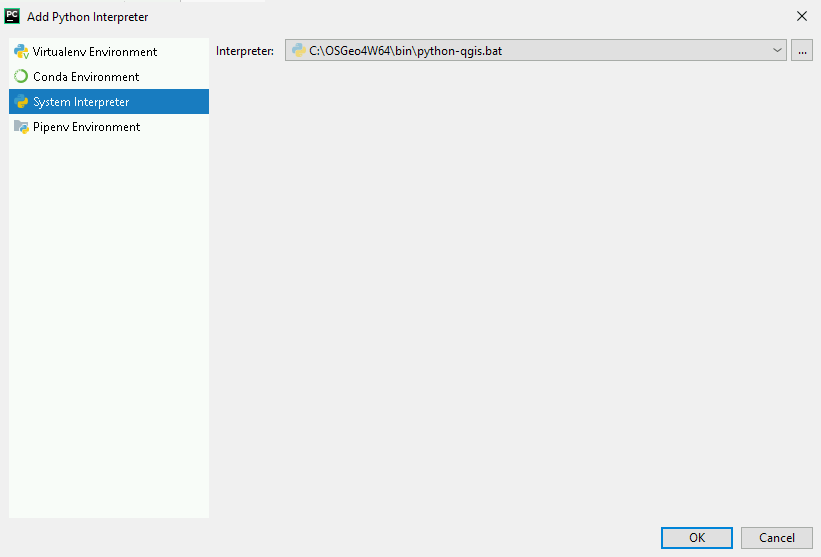
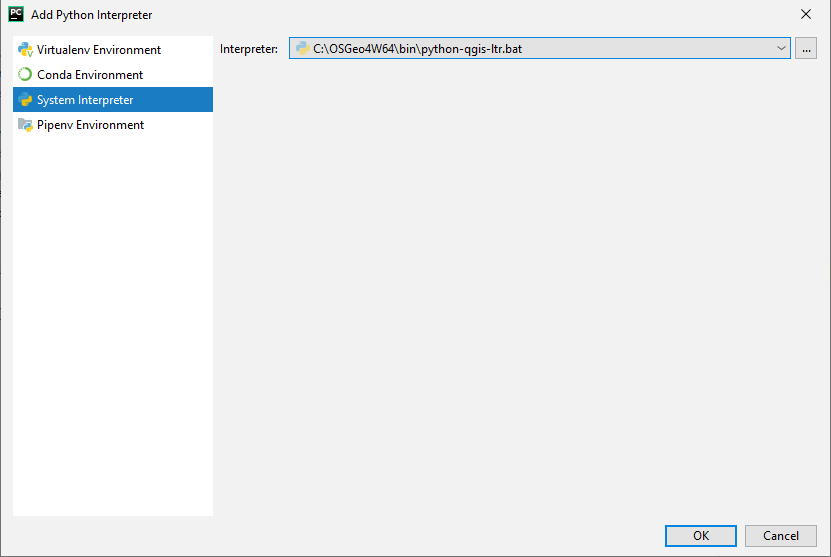
windows update installation notes

diff --git a/ruzne/instalace/windows.rst b/ruzne/instalace/windows.rst
@@ -38,8 +38,8 @@ prostředí/možnosti**, v jakých můžeme Python provozovat:
 První možnost (preferovaná): Instalace OSGeo4W
 ----------------------------------------------
 
-`OSGeo4W <https://trac.osgeo.org/osgeo4w/>`_ je síťový instalátor pro
-otevřený GIS software pro operační systém MS Windows. Instalace
+`OSGeo4W <https://trac.osgeo.org/osgeo4w/>`__ je síťový instalátor
+otevřeného GIS softwaru pro operační systém MS Windows. Instalace
 probíhá tak, že stáhneme neprve instalátor (typicky 64bit
 `osgeo4w-setup-x86_64.exe
 <http://download.osgeo.org/osgeo4w/osgeo4w-setup-x86_64.exe>`__),
@@ -89,6 +89,9 @@ V našem případě najděte a nainstalujte následující balíčky:
 * ``python3-pip``
 * ``python3-gdal``
 * ``python3-owslib``
+* ``python3-fiona``
+* ``python3-shapely``  
+* ``python3-rasterio``
 
 .. _instalace-osgeo4w-cmd:
 
@@ -100,7 +103,7 @@ V našem případě najděte a nainstalujte následující balíčky:
    .. code-block:: bash
                    
       osgeo4w-setup-x86_64.exe -g -k -a x86_64 -R C:\OSGeo4W64 -s http://osgeo4w-oslandia.com/osgeo4w -q ^
-      -P python3-pip,python3-gdal,python3-owslib,qgis-ltr-full
+      -P python3-pip,python3-gdal,python3-owslib,qgis-ltr-full,python3-fiona,python3-shapely,python3-rasterio
    
 .. note:: A samozřejmě můžete i nainstalovat desktopový program QGIS
    (není podmínkou pro toto školení).
@@ -122,54 +125,49 @@ nastaví proměnné prostředí pro Python 3.
         
 .. figure:: ../images/osgeo4w-run.png
 
-.. important:: V tuto chvíli (jaro 2020) bohužel nejde v použitelné
-   formě instalovat balíčky ``rasterio`` (chybí) a ``fiona/shapely``
-   (nefunkční), které budeme v tomto kurzu používat. Vazby na knihovnu
-   GDAL ale fungují dobře, postup je popsán v kapitole
-   :ref:`osgeo4w-fiona-etc`.
-
 .. _osgeo4w-fiona-etc:
 
-Instalace chybějících knihoven
-^^^^^^^^^^^^^^^^^^^^^^^^^^^^^^
+.. note:: Pokud narazíte na problém s instalací či nefunkčností
+   knihoven Fiona, Shapely či Rasterio, tak pokračujte podle
+   návodu níže.
 
-Potřebujeme stáhnout a nainstalovat knihovny, které v distribuci OSGeo4W nejsou
-a nebo nefungují, zejména balíčky
+   Potřebujeme stáhnout a nainstalovat knihovny, které v distribuci OSGeo4W nejsou
+   a nebo nefungují, zejména balíčky
 
-* `Rasterio <https://www.lfd.uci.edu/~gohlke/pythonlibs/#rasterio>`__
-* `Fiona <https://www.lfd.uci.edu/~gohlke/pythonlibs/#fiona>`__
-* `Shapely <https://www.lfd.uci.edu/~gohlke/pythonlibs/#shapely>`__
+   * `Rasterio <https://www.lfd.uci.edu/~gohlke/pythonlibs/#rasterio>`__
+   * `Fiona <https://www.lfd.uci.edu/~gohlke/pythonlibs/#fiona>`__
+   * `Shapely <https://www.lfd.uci.edu/~gohlke/pythonlibs/#shapely>`__
 
-Ze stránek `Unofficial Windows Binaries for Python Extension Packages
-<http://www.lfd.uci.edu/%7Egohlke/pythonlibs/>`__ stáhneme pro
-knihovny Fiona, Shapely a Rasterio soubory ve formátu Wheel - je
-důležité, aby verze Pythonu, pro kterou byly balíky připraveny, byla
-stejná jako verze Pythonu v OSGeo4W. Proto spustíme *OSGeo4W Shell* a
-zjistíme verzi::
+   Ze stránek `Unofficial Windows Binaries for Python Extension Packages
+   <http://www.lfd.uci.edu/%7Egohlke/pythonlibs/>`__ stáhneme pro
+   knihovny Fiona, Shapely a Rasterio soubory ve formátu Wheel - je
+   důležité, aby verze Pythonu, pro kterou byly balíky připraveny, byla
+   stejná jako verze Pythonu v OSGeo4W. Proto spustíme *OSGeo4W Shell* a
+   zjistíme verzi::
 
-        C:\> python3 --version
+           C:\> python3 --version
 
-        Python 3.7.0
+           Python 3.7.0
 
-V našem případě tedy stáhneme např. soubory
+   V našem případě tedy stáhneme např. soubory
 
-* :file:`rasterio‑1.1.4‑cp37‑cp37m‑win_amd64.whl`
-* :file:`Fiona‑1.8.13‑cp37‑cp37m‑win_amd64.whl`
-* :file:`Shapely‑1.7.0‑cp37‑cp37m‑win_amd64.whl`
+   * :file:`rasterio‑1.2.1‑cp37‑cp37m‑win_amd64.whl`
+   * :file:`Fiona‑1.8.18‑cp37‑cp37m‑win_amd64.whl`
+   * :file:`Shapely‑1.7.1‑cp37‑cp37m‑win_amd64.whl`
 
-A doinstalujeme tyto balíky pomocí :program:`pip` v prostředí
-*OSGeo4W Shell* jako *správce*. Nezapomeňte nejprve nastavit
-prostředí pro Python 3 spuštěním skriptu :file:`py3_env`.
+   A doinstalujeme tyto balíky pomocí :program:`pip` v prostředí
+   *OSGeo4W Shell* jako *správce*. Nezapomeňte nejprve nastavit
+   prostředí pro Python 3 spuštěním skriptu :file:`py3_env`.
 
-.. code-block:: bash
+   .. code-block:: bash
 
-   py3_env
-       
-   cd C:\Users\Administrator\Downloads
+      py3_env
 
-   python3 -m pip install Fiona-1.8.13-cp37-cp37m-win_amd64.whl
-   python3 -m pip install rasterio-1.1.4-cp37-cp37m-win_amd64.whl
-   python3 -m pip install Shapely-1.7.0-cp37-cp37m-win_amd64.whl
+      cd C:\Users\Administrator\Downloads
+
+      python3 -m pip install Fiona-1.8.18-cp37-cp37m-win_amd64.whl
+      python3 -m pip install rasterio-1.2.1-cp37-cp37m-win_amd64.whl
+      python3 -m pip install Shapely-1.7.1-cp37-cp37m-win_amd64.whl
 
 Následně můžeme instalaci vyzkoušet :ref:`install-pytest`.
 

diff --git a/ruzne/editor/atom.rst b/ruzne/editor/atom.rst
@@ -34,9 +34,9 @@ z menu :menuselection:`Packages --> Script --> Configure Script`.
 
 Zde pak musíme zapsat cestu k interpretu jazyka Python. V případě
 využití OSGeo4W je vhodný BAT soubor
-:file:`C:\\OSGeo4W64\\bin\\python-qgis.bat` (anebo
-:file:`C:\\OSGeo4W64\\bin\\python-qgis-ltr.bat` pokud máte
-nainstalovánu LTR verzi QGIS). Tento postup v každém případě
+:file:`C:\\OSGeo4W64\\bin\\python-qgis-ltr.bat` (anebo
+:file:`C:\\OSGeo4W64\\bin\\python-qgis.bat` na základě verze
+QGISu, kterou máte nainstalovánu). Tento postup v každém případě
 předpokládá, že máte v prostředí OSGeo4W nainstalován QGIS. Před
 samotným spuštěním :file:`python.exe` nastaví korektní cesty ke
 knihovnám.

diff --git a/ruzne/editor/pycharm.rst b/ruzne/editor/pycharm.rst
@@ -18,7 +18,9 @@ Při jeho konfiguraci je možné nastavit interpret jazyka.
    :class: middle
 
 V případě využití OSGeo4W je vhodný BAT soubor
-:file:`C:\\OSGeo4W64\\bin\\python-qgis.bat`. Před samotným spuštěním
+:file:`C:\\OSGeo4W64\\bin\\python-qgis-ltr.bat` (anebo
+:file:`C:\\OSGeo4W64\\bin\\python-qgis.bat` na základě verze
+QGISu, kterou máte nainstalovánu). Před samotným spuštěním
 :file:`python.exe` nastaví korektní cesty ke knihovnám.
 
 V nově vytvořeném projektu můžeme kliknout pravým tlačítkem na název projektu a

diff --git a/index.rst b/index.rst
@@ -48,7 +48,7 @@
 .. notedata::
 
    *Data ke školení* je stažitelná jako `zip archiv
-   <http://training.gismentors.eu/geodata/geopython/data.tgz>`_ (166
+   <http://training.gismentors.eu/geodata/geopython/data.zip>`_ (166
    MB). Dále můžete využít data ze školení :skoleni:`QGIS pro
    začátečníky <qgis-zacatecnik>`  a to `vektorovová data
    <http://training.gismentors.eu/geodata/qgis/data.zip>`_ (614 MB) a
